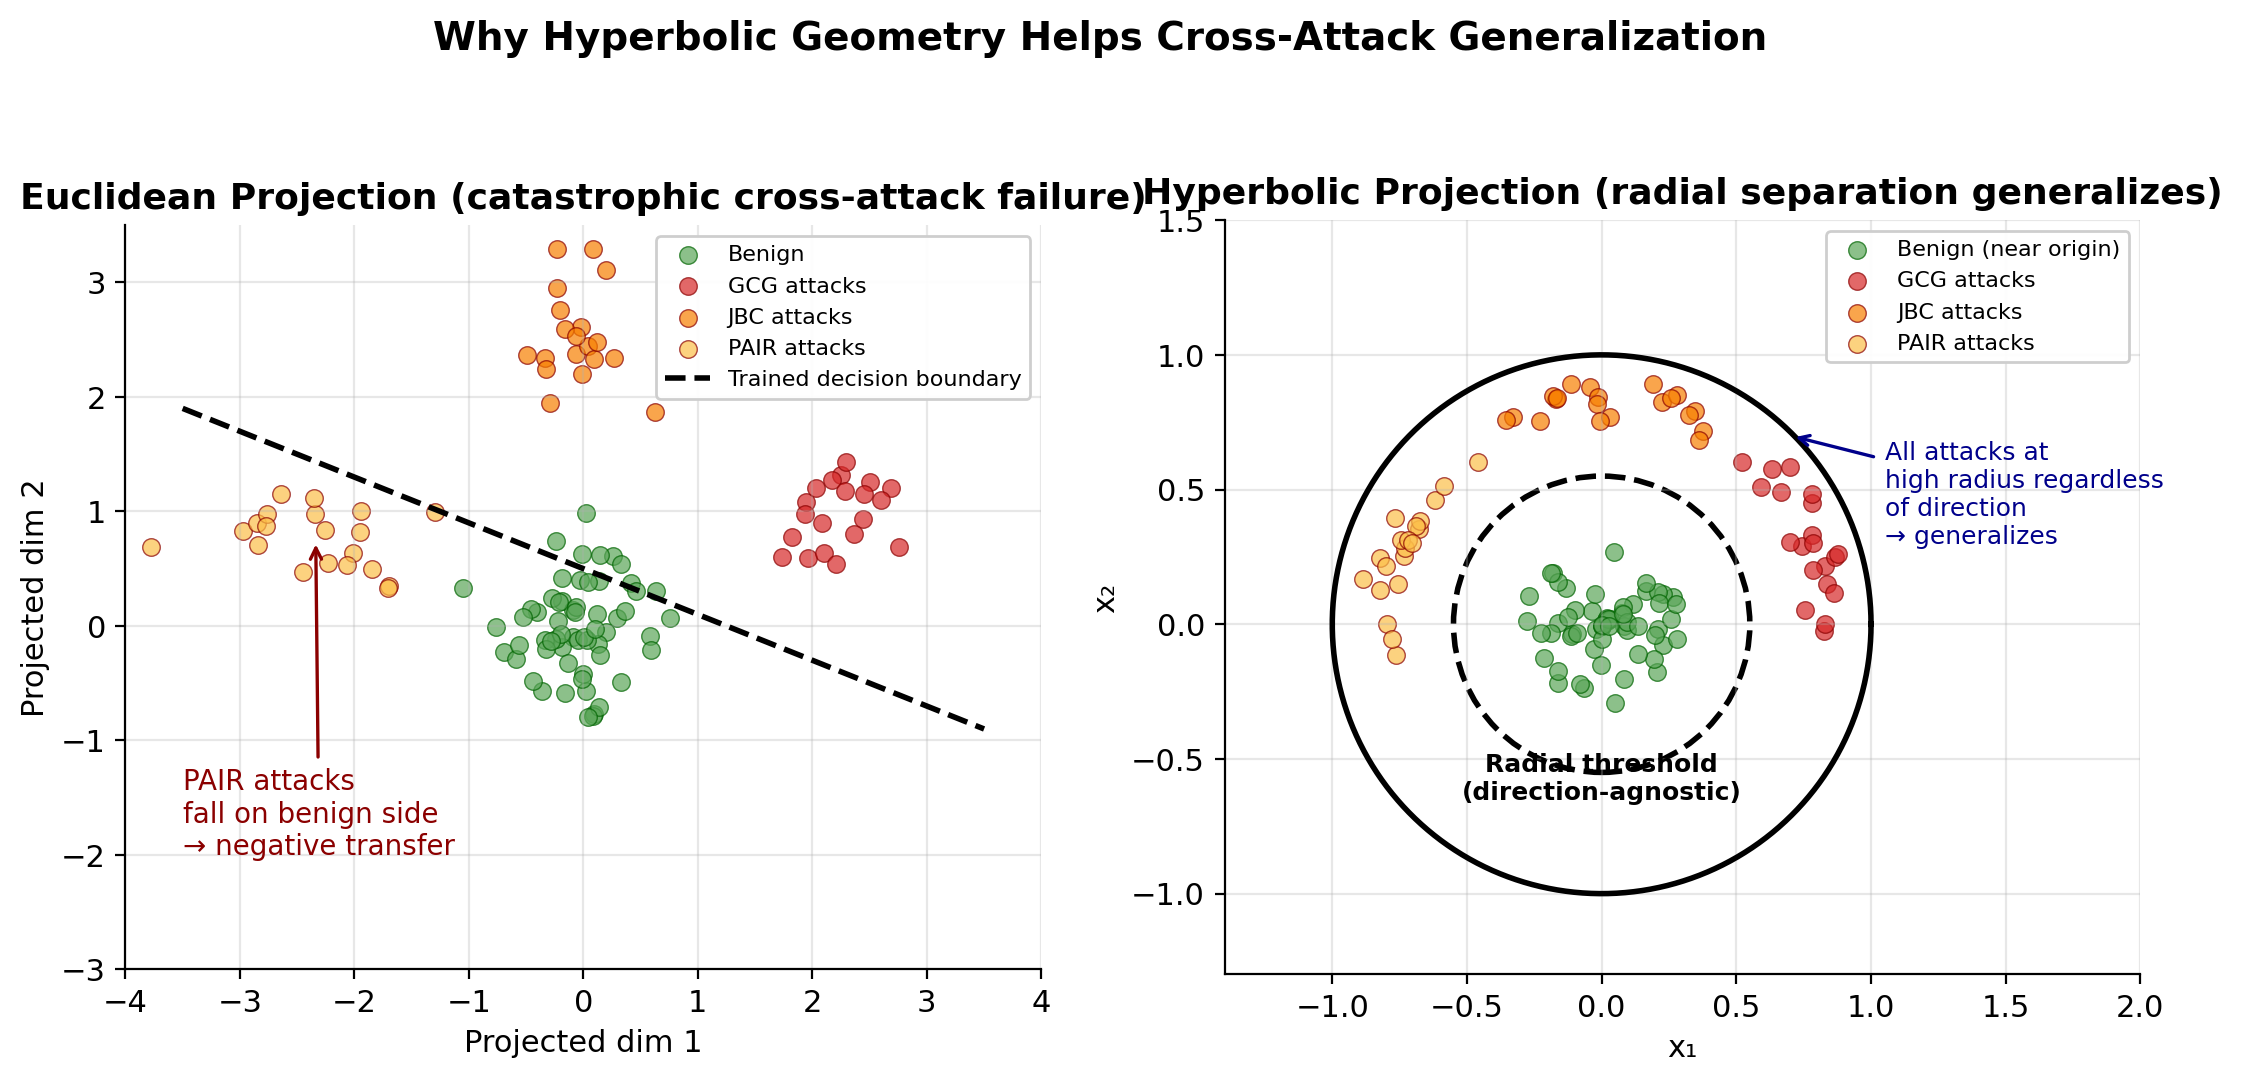
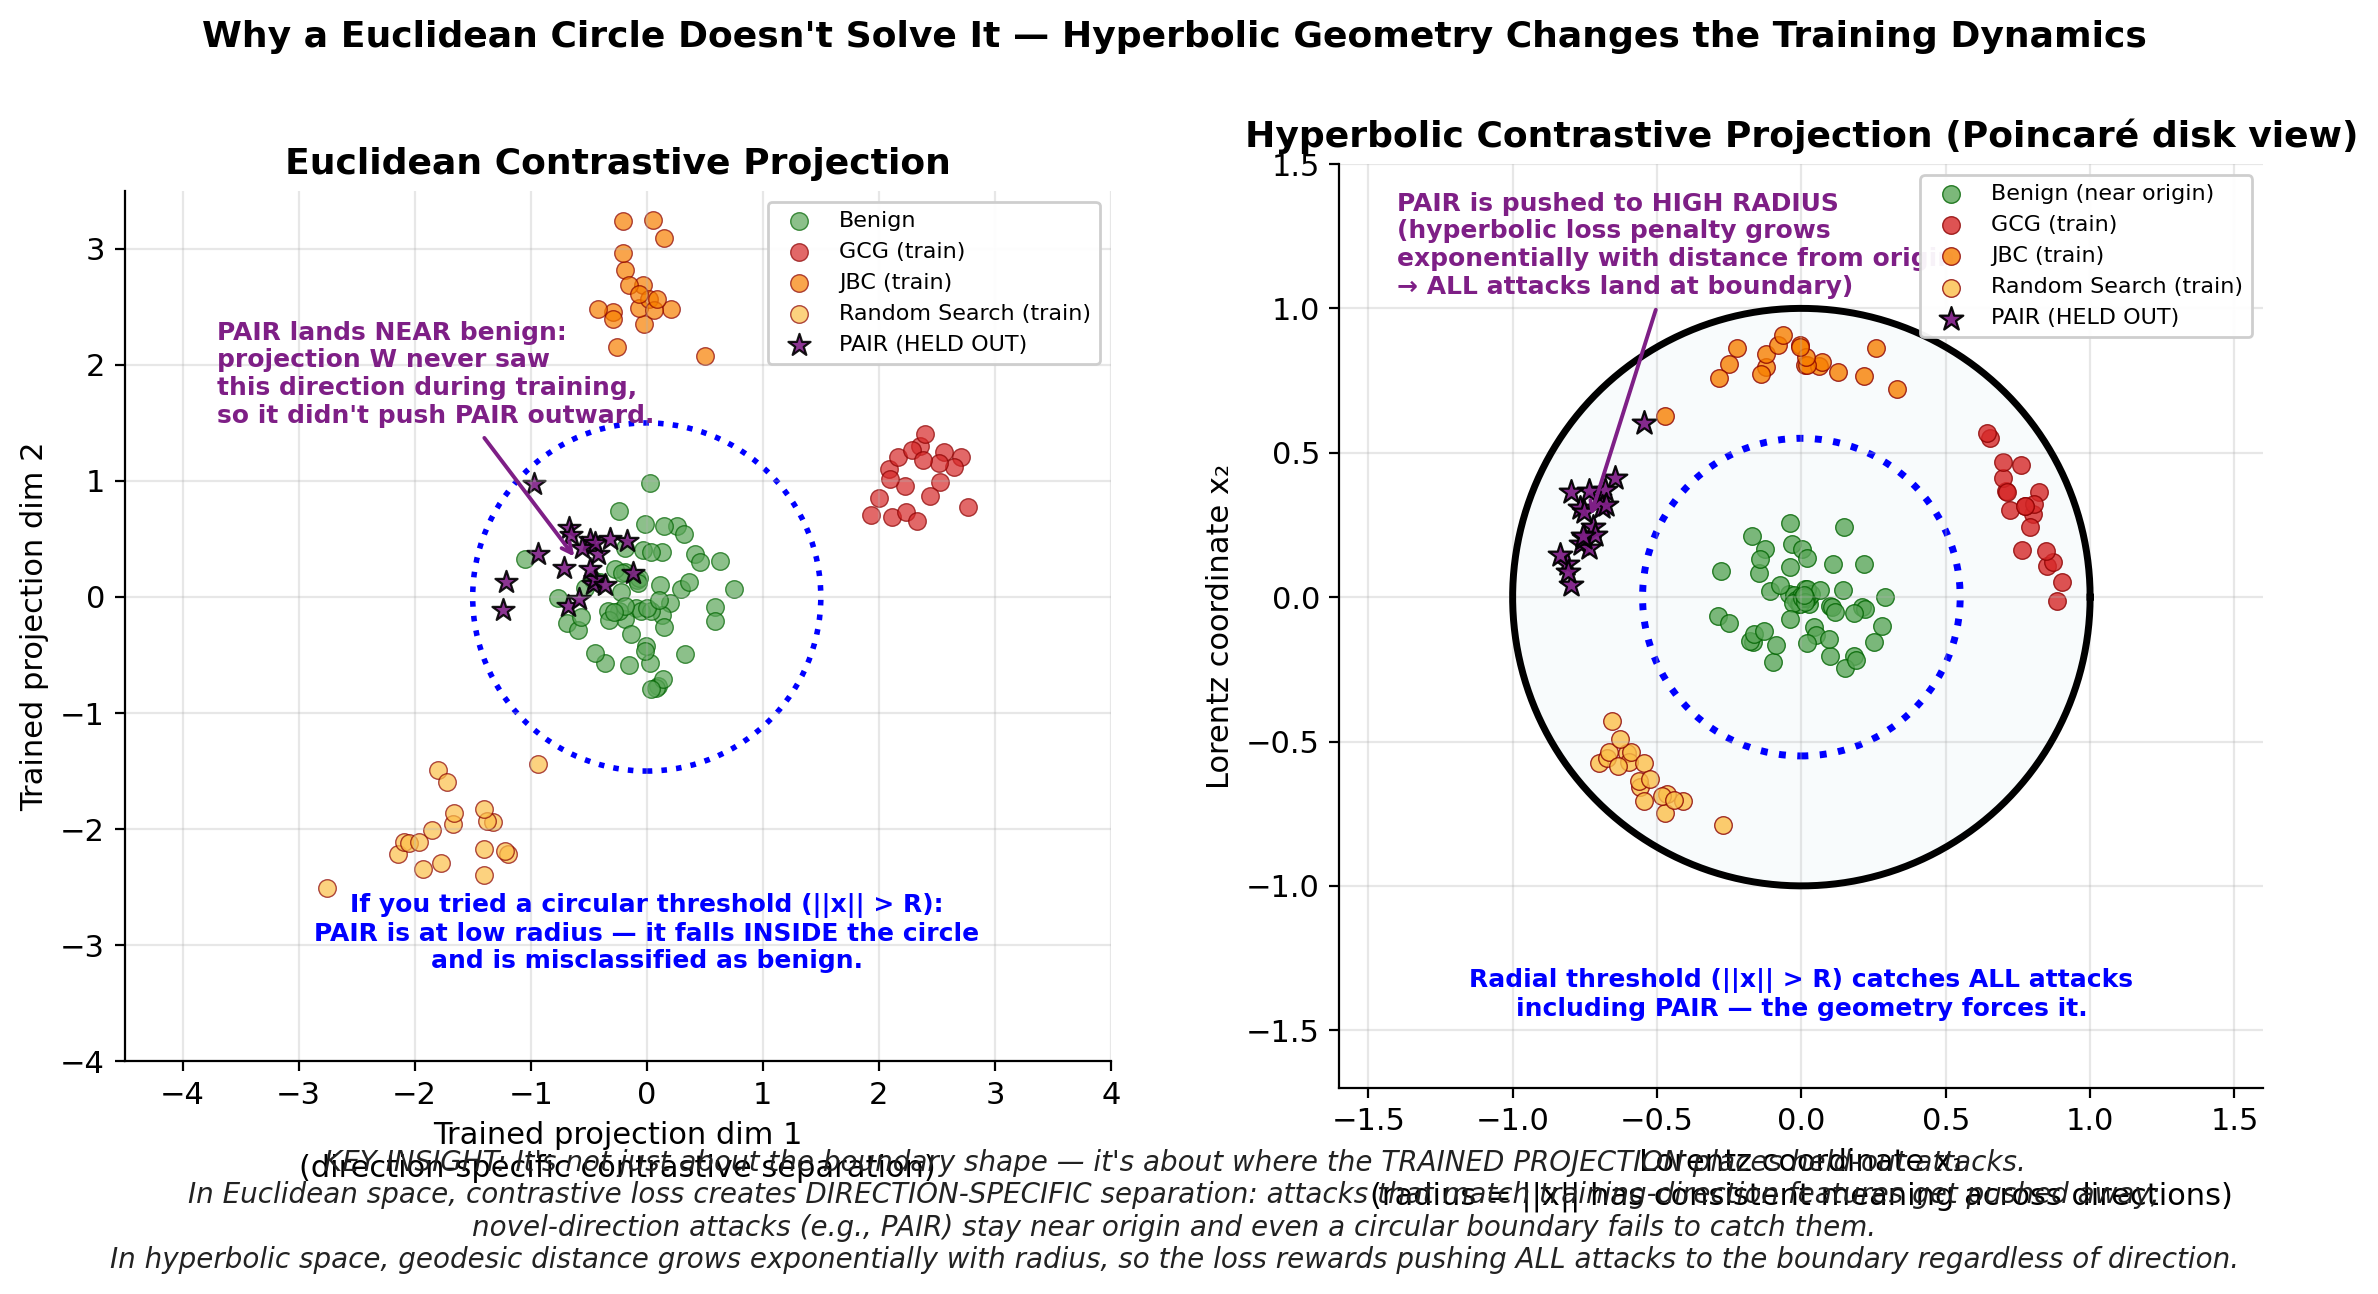
update

diff --git a/visualize_results.py b/visualize_results.py
@@ -146,102 +146,157 @@ def make_summary_figure():
 # ═══════════════════════════════════════════════════════════════════════════
 
 def make_concept_figure():
-    fig, axes = plt.subplots(1, 2, figsize=(13, 5.5))
+    fig, axes = plt.subplots(1, 2, figsize=(14, 6))
 
     np.random.seed(42)
     n = 60
 
-    # Generate fake data: benign near origin, attacks toward boundary
-    # Euclidean view: linear separation (overfits direction-specific)
-    benign_e = np.random.randn(n, 2) * 0.4
-    # Three "attack types" come from different directions
-    angles = [0.4, 1.6, 2.8]  # different angular positions
-    attacks_e = []
-    attack_labels = ["GCG", "JBC", "PAIR"]
-    for ang in angles:
-        cluster = np.array([[np.cos(ang), np.sin(ang)]]) * np.random.uniform(2.0, 3.0, (n // 3, 1))
-        cluster += np.random.randn(n // 3, 2) * 0.3
-        attacks_e.append(cluster)
+    # ───────────────────────────────────────────────────────────────────
+    #  Key insight:
+    #  Euclidean contrastive loss pushes TRAINED attacks far from benign
+    #  in specific learned directions, but held-out attack types may not
+    #  be radially separated at all — they can land NEAR benign in the
+    #  trained projection space because the projection only learned to
+    #  separate attacks IN DIRECTIONS IT SAW.
+    #
+    #  Hyperbolic geodesic loss makes radius the dominant signal because
+    #  hyperbolic distance grows exponentially with radius — the loss
+    #  landscape rewards pushing ALL attacks to high radius regardless
+    #  of angular direction.
+    # ───────────────────────────────────────────────────────────────────
 
-    # ── Panel 1: Euclidean ──
+    angles_train = [0.4, 1.6, 4.0]   # GCG, JBC, Random Search (in training)
+    angle_holdout = 2.8              # PAIR (held out)
+    attack_train_labels = ["GCG (train)", "JBC (train)", "Random Search (train)"]
+    train_colors = ["#D62828", "#F77F00", "#FCBF49"]
+    holdout_color = "#7E1F86"
+
+    # ───────────────────────────────────────────────────────────────────
+    #  Left panel: Euclidean trained projection
+    # ───────────────────────────────────────────────────────────────────
     ax1 = axes[0]
+    benign_e = np.random.randn(n, 2) * 0.4
+
+    # Trained attacks pushed far in specific learned directions
+    train_attacks_e = []
+    for ang in angles_train:
+        cluster = np.array([[np.cos(ang), np.sin(ang)]]) * np.random.uniform(2.2, 3.0, (n // 3, 1))
+        cluster += np.random.randn(n // 3, 2) * 0.25
+        train_attacks_e.append(cluster)
+
+    # Held-out PAIR attacks: NOT pushed to high radius because projection
+    # never saw this direction during contrastive training. Lands AMONG benign.
+    pair_e = np.array([[np.cos(angle_holdout), np.sin(angle_holdout)]]) * np.random.uniform(0.6, 1.0, (n // 3, 1))
+    pair_e += np.random.randn(n // 3, 2) * 0.35
+
+    # Plot
     ax1.scatter(benign_e[:, 0], benign_e[:, 1], c=COLOR_BENIGN, s=40, alpha=0.7,
                 edgecolor="darkgreen", linewidth=0.5, label="Benign")
-    attack_colors_eu = ["#D62828", "#F77F00", "#FCBF49"]
-    for i, (atk, lbl) in enumerate(zip(attacks_e, attack_labels)):
-        ax1.scatter(atk[:, 0], atk[:, 1], c=attack_colors_eu[i], s=40, alpha=0.7,
-                    edgecolor="darkred", linewidth=0.5, label=f"{lbl} attacks")
-    # Draw a Euclidean "decision boundary" that catches GCG but misses PAIR
-    boundary_x = np.linspace(-3.5, 3.5, 100)
-    boundary_y = -0.4 * boundary_x + 0.5  # arbitrary linear boundary fit to GCG
-    ax1.plot(boundary_x, boundary_y, "k--", linewidth=2, label="Trained decision boundary")
-    # Annotate the failure
-    ax1.annotate("PAIR attacks\nfall on benign side\n→ negative transfer",
-                 xy=(attacks_e[2][:, 0].mean(), attacks_e[2][:, 1].mean()),
-                 xytext=(-3.5, -2),
-                 fontsize=10, color="darkred",
-                 arrowprops=dict(arrowstyle="->", color="darkred", lw=1.2),
-                 ha="left")
-    ax1.set_xlim(-4, 4)
-    ax1.set_ylim(-3, 3.5)
+    for i, (atk, lbl) in enumerate(zip(train_attacks_e, attack_train_labels)):
+        ax1.scatter(atk[:, 0], atk[:, 1], c=train_colors[i], s=40, alpha=0.7,
+                    edgecolor="darkred", linewidth=0.5, label=lbl)
+    ax1.scatter(pair_e[:, 0], pair_e[:, 1], c=holdout_color, s=70,
+                marker="*", alpha=0.9, edgecolor="black", linewidth=0.8,
+                label="PAIR (HELD OUT)")
+
+    # Draw the "circular boundary the mentor asks about"
+    circle_e = plt.Circle((0, 0), 1.5, color="blue", fill=False, linestyle=":", linewidth=2.0)
+    ax1.add_patch(circle_e)
+    ax1.text(0, -3.2, "If you tried a circular threshold (||x|| > R):\nPAIR is at low radius — it falls INSIDE the circle\nand is misclassified as benign.",
+             ha="center", fontsize=9, color="blue", fontweight="bold")
+
+    ax1.annotate("PAIR lands NEAR benign:\nprojection W never saw\nthis direction during training,\nso it didn't push PAIR outward.",
+                 xy=(pair_e[:, 0].mean(), pair_e[:, 1].mean()),
+                 xytext=(-3.7, 1.5),
+                 fontsize=9, color=holdout_color,
+                 arrowprops=dict(arrowstyle="->", color=holdout_color, lw=1.4),
+                 ha="left", fontweight="bold")
+
+    ax1.set_xlim(-4.5, 4.0)
+    ax1.set_ylim(-4.0, 3.5)
     ax1.set_aspect("equal")
-    ax1.set_title("Euclidean Projection (catastrophic cross-attack failure)",
+    ax1.set_title("Euclidean Contrastive Projection",
                   fontweight="bold")
-    ax1.set_xlabel("Projected dim 1")
-    ax1.set_ylabel("Projected dim 2")
+    ax1.set_xlabel("Trained projection dim 1\n(direction-specific contrastive separation)")
+    ax1.set_ylabel("Trained projection dim 2")
     ax1.legend(loc="upper right", framealpha=0.95, fontsize=8)
     ax1.grid(alpha=0.3)
 
-    # ── Panel 2: Hyperbolic ──
+    # ───────────────────────────────────────────────────────────────────
+    #  Right panel: Hyperbolic trained projection (Poincaré disk view)
+    # ───────────────────────────────────────────────────────────────────
     ax2 = axes[1]
-    # Poincaré disk visualization
     theta = np.linspace(0, 2 * np.pi, 200)
-    ax2.plot(np.cos(theta), np.sin(theta), "k-", linewidth=2)  # boundary
+    ax2.plot(np.cos(theta), np.sin(theta), "k-", linewidth=2.5)
+    ax2.fill(np.cos(theta), np.sin(theta), color="#E8F4F8", alpha=0.3)
 
-    # Benign at small radius (interior), attacks at large radius (near boundary)
-    benign_r = np.random.uniform(0, 0.3, n)
+    benign_r = np.random.uniform(0, 0.30, n)
     benign_theta = np.random.uniform(0, 2 * np.pi, n)
     benign_h = np.column_stack([benign_r * np.cos(benign_theta),
                                  benign_r * np.sin(benign_theta)])
 
-    # Attacks at high radius BUT distributed in different angles
-    attacks_h = []
-    for ang in angles:
-        atk_r = np.random.uniform(0.75, 0.92, n // 3)
-        atk_theta = ang + np.random.randn(n // 3) * 0.25
+    # Trained attacks at high radius
+    train_attacks_h = []
+    for ang in angles_train:
+        atk_r = np.random.uniform(0.78, 0.92, n // 3)
+        atk_theta = ang + np.random.randn(n // 3) * 0.20
         atk = np.column_stack([atk_r * np.cos(atk_theta),
                                 atk_r * np.sin(atk_theta)])
-        attacks_h.append(atk)
+        train_attacks_h.append(atk)
 
-    ax2.scatter(benign_h[:, 0], benign_h[:, 1], c=COLOR_BENIGN, s=40, alpha=0.7,
+    # Held-out PAIR ALSO at high radius — because hyperbolic geodesic
+    # distance penalizes ANY point near origin if it's labeled adversarial,
+    # so the contrastive loss pressures the projection to push ALL attack
+    # representations toward the boundary regardless of angular direction.
+    pair_r = np.random.uniform(0.74, 0.88, n // 3)
+    pair_theta = angle_holdout + np.random.randn(n // 3) * 0.20
+    pair_h = np.column_stack([pair_r * np.cos(pair_theta),
+                               pair_r * np.sin(pair_theta)])
+
+    ax2.scatter(benign_h[:, 0], benign_h[:, 1], c=COLOR_BENIGN, s=40, alpha=0.8,
                 edgecolor="darkgreen", linewidth=0.5, label="Benign (near origin)")
-    for i, (atk, lbl) in enumerate(zip(attacks_h, attack_labels)):
-        ax2.scatter(atk[:, 0], atk[:, 1], c=attack_colors_eu[i], s=40, alpha=0.7,
-                    edgecolor="darkred", linewidth=0.5, label=f"{lbl} attacks")
-    # Radial boundary
-    boundary = plt.Circle((0, 0), 0.55, color="black", fill=False,
-                          linestyle="--", linewidth=2)
+    for i, (atk, lbl) in enumerate(zip(train_attacks_h, attack_train_labels)):
+        ax2.scatter(atk[:, 0], atk[:, 1], c=train_colors[i], s=40, alpha=0.8,
+                    edgecolor="darkred", linewidth=0.5, label=lbl)
+    ax2.scatter(pair_h[:, 0], pair_h[:, 1], c=holdout_color, s=80,
+                marker="*", alpha=0.95, edgecolor="black", linewidth=0.8,
+                label="PAIR (HELD OUT)")
+
+    # Radial threshold
+    boundary = plt.Circle((0, 0), 0.55, color="blue", fill=False,
+                          linestyle=":", linewidth=2.5)
     ax2.add_patch(boundary)
-    ax2.text(0, -0.65, "Radial threshold\n(direction-agnostic)",
-             ha="center", fontsize=9, fontweight="bold")
-    # Annotate the success
-    ax2.annotate("All attacks at\nhigh radius regardless\nof direction\n→ generalizes",
-                 xy=(0.7, 0.7), xytext=(1.05, 0.3),
-                 fontsize=9, color="darkblue",
-                 arrowprops=dict(arrowstyle="->", color="darkblue", lw=1.2),
-                 ha="left")
-    ax2.set_xlim(-1.4, 2.0)
-    ax2.set_ylim(-1.3, 1.5)
+    ax2.text(0, -1.45, "Radial threshold (||x|| > R) catches ALL attacks\nincluding PAIR — the geometry forces it.",
+             ha="center", fontsize=9, color="blue", fontweight="bold")
+
+    ax2.annotate("PAIR is pushed to HIGH RADIUS\n(hyperbolic loss penalty grows\nexponentially with distance from origin\n→ ALL attacks land at boundary)",
+                 xy=(pair_h[:, 0].mean(), pair_h[:, 1].mean()),
+                 xytext=(-1.4, 1.05),
+                 fontsize=9, color=holdout_color,
+                 arrowprops=dict(arrowstyle="->", color=holdout_color, lw=1.4),
+                 ha="left", fontweight="bold")
+
+    ax2.set_xlim(-1.6, 1.6)
+    ax2.set_ylim(-1.7, 1.5)
     ax2.set_aspect("equal")
-    ax2.set_title("Hyperbolic Projection (radial separation generalizes)",
+    ax2.set_title("Hyperbolic Contrastive Projection (Poincaré disk view)",
                   fontweight="bold")
-    ax2.set_xlabel("x₁")
-    ax2.set_ylabel("x₂")
+    ax2.set_xlabel("Lorentz coordinate x₁\n(radius = ||x|| has consistent meaning across directions)")
+    ax2.set_ylabel("Lorentz coordinate x₂")
     ax2.legend(loc="upper right", framealpha=0.95, fontsize=8)
     ax2.grid(alpha=0.3)
 
-    fig.suptitle("Why Hyperbolic Geometry Helps Cross-Attack Generalization",
-                 fontweight="bold", y=1.02)
+    fig.suptitle("Why a Euclidean Circle Doesn't Solve It — Hyperbolic Geometry Changes the Training Dynamics",
+                 fontweight="bold", y=1.00, fontsize=13)
+
+    # Add explanatory caption below
+    fig.text(0.5, -0.04,
+             "KEY INSIGHT: It's not just about the boundary shape — it's about where the TRAINED PROJECTION places held-out attacks.\n"
+             "In Euclidean space, contrastive loss creates DIRECTION-SPECIFIC separation: attacks that match training-direction features get pushed away;\n"
+             "novel-direction attacks (e.g., PAIR) stay near origin and even a circular boundary fails to catch them.\n"
+             "In hyperbolic space, geodesic distance grows exponentially with radius, so the loss rewards pushing ALL attacks to the boundary regardless of direction.",
+             ha="center", fontsize=10, style="italic", color="#222")
+
     out_path = os.path.join(OUT_DIR, "hps_concept.png")
     fig.savefig(out_path, dpi=200, bbox_inches="tight")
     print(f"Saved → {out_path}")